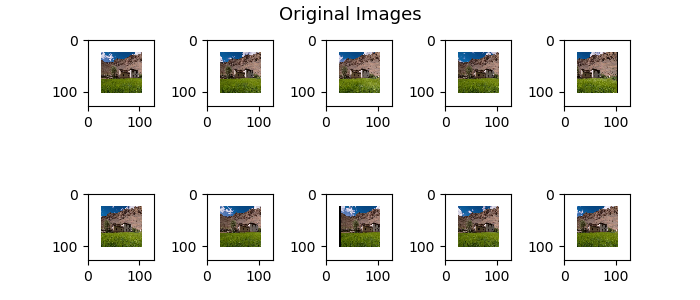
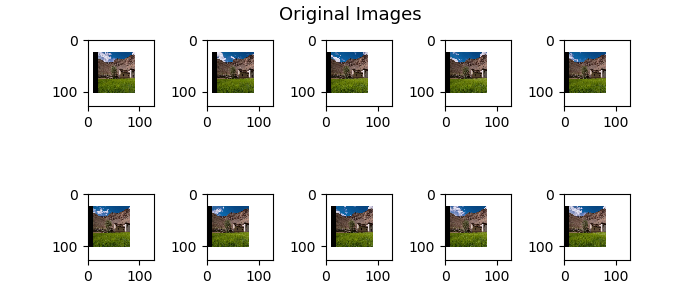
ll

diff --git a/ATN.py b/ATN.py
@@ -70,56 +70,57 @@ class alignment_transformer_network:
         return logits,transformations,alignment_losses,transformations_regularizers, a, b
 
     def alignment_loss_and_reg(self,logits,affine_maps):
-        # multiply W (binary mask) with the 3-dim image (tested):
-        img_slice = tf.slice(logits,[0,0,0,0],[-1,-1,-1,self.num_channels - 1])  # (64, 128, 128, 3)
-        #img_slice = tf.Print(img_slice,[img_slice],message="img_slice is a: ",summarize=100)
-        w_slice = tf.slice(logits,[0,0,0,self.num_channels - 1],[-1,-1,-1,-1])  # (64, 128, 128, 1)
-        #w_slice = tf.Print(w_slice,[w_slice],message="w_slice is a: ",summarize=100)
-        logits_new = tf.multiply(img_slice,w_slice)  # (64, 128, 128, 3)
-        #logits_new = tf.Print(logits_new,[logits_new],message="logits_new is a: ",summarize=100)
-        sum_weighted_imgs = tf.reduce_sum(logits_new,0)  # (128, 128, 3)
-        #sum_weighted_imgs = tf.Print(sum_weighted_imgs,[sum_weighted_imgs],message="sum_weighted_imgs is a: ",summarize=100)
-        sum_weights = tf.reduce_sum(w_slice,0)  # (128, 128, 1)
-        #sum_weights = tf.Print(sum_weights,[sum_weights],message="sum_weights is a: ",summarize=100)
-        sum_weights = tf.concat([sum_weights,sum_weights,sum_weights],2)  # (128, 128, 3)
-        #sum_weights = tf.Print(sum_weights,[sum_weights],message="sum_weights is a: ",summarize=100)
-
-        # If "sum_weights" = 0 for pixel i, then "averages_new" should be 0
-        averages_new = tf.where(tf.less(sum_weights,1e-3),tf.zeros_like(sum_weighted_imgs),tf.divide(sum_weighted_imgs,sum_weights+1e-7)) # (128, 128, 3)
-        #averages_new = tf.Print(averages_new,[averages_new],message="averages_new is a: ",summarize=100)
-
-        weighted_diff = tf.multiply(w_slice,tf.subtract(img_slice,averages_new))  # (64, 128, 128, 3)
-        #weighted_diff = tf.Print(weighted_diff,[weighted_diff],message="weighted_diff is a: ",summarize=100)
-        sum_weighted_diff = tf.reduce_mean(tf.square(weighted_diff),0)  # (128, 128, 3)
-
-        # PRINTINGS
-        tmp = tf.slice(sum_weighted_diff,[90,90,0],[-1,-1,-1])
-        # tmp = tf.Print(tmp,[tmp],message="sum_weighted_diff is a: ",summarize=100)
-        a = tf.reduce_max(tmp)
-        # a = tf.Print(a,[a],message="max(sum_weighted_diff) is a: ")
-        b = tf.reduce_min(tmp)
-        # b = tf.Print(b,[b],message="min(sum_weighted_diff) is a: ")
-
-        # If "sum_weights" = 0 for pixel i, then "square_mean_new" should be 0
-        square_mean_new = tf.where(tf.less(sum_weights,1e-3),tf.zeros_like(sum_weighted_diff),tf.divide(sum_weighted_diff,sum_weights+1e-7))  # (128, 128, 3)
-        #square_mean_new = tf.Print(square_mean_new,[square_mean_new],message="square_mean_new is a: ",summarize=100)
-        alignment_loss = tf.reduce_sum(square_mean_new) # tf.reduce_sum(square_mean_new)
-        #alignment_loss = tf.Print(alignment_loss,[alignment_loss],message="alignment_loss is a: ",summarize=100)
-
-        transformations_regularizer = transformation_regularization(affine_maps,
-                                                                   self.regularizations)  #give a diffrent penalty to each type of transformation magnituted
+        # # multiply W (binary mask) with the 3-dim image (tested):
+        # img_slice = tf.slice(logits,[0,0,0,0],[-1,-1,-1,self.num_channels - 1])  # (64, 128, 128, 3)
+        # #img_slice = tf.Print(img_slice,[img_slice],message="img_slice is a: ",summarize=100)
+        # w_slice = tf.slice(logits,[0,0,0,self.num_channels - 1],[-1,-1,-1,-1])  # (64, 128, 128, 1)
+        # #w_slice = tf.Print(w_slice,[w_slice],message="w_slice is a: ",summarize=100)
+        # logits_new = tf.multiply(img_slice,w_slice)  # (64, 128, 128, 3)
+        # #logits_new = tf.Print(logits_new,[logits_new],message="logits_new is a: ",summarize=100)
+        # sum_weighted_imgs = tf.reduce_sum(logits_new,0)  # (128, 128, 3)
+        # #sum_weighted_imgs = tf.Print(sum_weighted_imgs,[sum_weighted_imgs],message="sum_weighted_imgs is a: ",summarize=100)
+        # sum_weights = tf.reduce_sum(w_slice,0)  # (128, 128, 1)
+        # #sum_weights = tf.Print(sum_weights,[sum_weights],message="sum_weights is a: ",summarize=100)
+        # sum_weights = tf.concat([sum_weights,sum_weights,sum_weights],2)  # (128, 128, 3)
+        # #sum_weights = tf.Print(sum_weights,[sum_weights],message="sum_weights is a: ",summarize=100)
+        #
+        # # If "sum_weights" = 0 for pixel i, then "averages_new" should be 0
+        # averages_new = tf.where(tf.less(sum_weights,1e-3),tf.zeros_like(sum_weighted_imgs),tf.divide(sum_weighted_imgs,sum_weights+1e-7)) # (128, 128, 3)
+        # #averages_new = tf.Print(averages_new,[averages_new],message="averages_new is a: ",summarize=100)
+        #
+        # weighted_diff = tf.multiply(w_slice,tf.subtract(img_slice,averages_new))  # (64, 128, 128, 3)
+        # #weighted_diff = tf.Print(weighted_diff,[weighted_diff],message="weighted_diff is a: ",summarize=100)
+        # sum_weighted_diff = tf.reduce_mean(tf.square(weighted_diff),0)  # (128, 128, 3)
+        #
+        # # PRINTINGS
+        # tmp = tf.slice(sum_weighted_diff,[90,90,0],[-1,-1,-1])
+        # # tmp = tf.Print(tmp,[tmp],message="sum_weighted_diff is a: ",summarize=100)
+        # a = tf.reduce_max(tmp)
+        # # a = tf.Print(a,[a],message="max(sum_weighted_diff) is a: ")
+        # b = tf.reduce_min(tmp)
+        # # b = tf.Print(b,[b],message="min(sum_weighted_diff) is a: ")
+        #
+        # # If "sum_weights" = 0 for pixel i, then "square_mean_new" should be 0
+        # square_mean_new = tf.where(tf.less(sum_weights,1e-3),tf.zeros_like(sum_weighted_diff),tf.divide(sum_weighted_diff,sum_weights+1e-7))  # (128, 128, 3)
+        # #square_mean_new = tf.Print(square_mean_new,[square_mean_new],message="square_mean_new is a: ",summarize=100)
+        # alignment_loss = tf.reduce_sum(square_mean_new) # tf.reduce_sum(square_mean_new)
+        # #alignment_loss = tf.Print(alignment_loss,[alignment_loss],message="alignment_loss is a: ",summarize=100)
+        #
+        # transformations_regularizer = transformation_regularization(affine_maps,
+        #                                                            self.regularizations)  #give a diffrent penalty to each type of transformation magnituted
 
         # # Asher's code:
-        # averages = tf.reduce_mean(logits,  0)
-        # #averages = tf.Print(averages,[averages],message="averages is a: ",summarize=100)
-        # diff = tf.subtract(logits,averages)
-        # #diff = tf.Print(diff,[diff],message="diff is a: ",summarize=100)
-        # sqaure_mean = tf.reduce_mean(tf.square(diff),0)
-        # #sqaure_mean = tf.Print(sqaure_mean,[sqaure_mean],message="sqaure_mean is a: ",summarize=100)
-        # alignment_loss = tf.reduce_sum(sqaure_mean)
-        # #alignment_loss = tf.Print(alignment_loss,[alignment_loss],message="alignment_loss is a: ",summarize=100)
-        # transformations_regularizer = transformation_regularization(affine_maps,self.regularizations)#give a diffrent penalty to each type of transformation magnituted
-
+        averages = tf.reduce_mean(logits,  0)
+        #averages = tf.Print(averages,[averages],message="averages is a: ",summarize=100)
+        diff = tf.subtract(logits,averages)
+        #diff = tf.Print(diff,[diff],message="diff is a: ",summarize=100)
+        sqaure_mean = tf.reduce_mean(tf.square(diff),0)
+        #sqaure_mean = tf.Print(sqaure_mean,[sqaure_mean],message="sqaure_mean is a: ",summarize=100)
+        alignment_loss = tf.reduce_sum(sqaure_mean)
+        #alignment_loss = tf.Print(alignment_loss,[alignment_loss],message="alignment_loss is a: ",summarize=100)
+        transformations_regularizer = transformation_regularization(affine_maps,self.regularizations)#give a diffrent penalty to each type of transformation magnituted
+        a = tf.reduce_max(averages)
+        b = tf.reduce_max(averages)
         return alignment_loss,transformations_regularizer , a , b
 
 

diff --git a/atn_helpers/tranformations_helper.py b/atn_helpers/tranformations_helper.py
@@ -13,6 +13,9 @@ from tensorflow.python.framework import ops
 from scipy.linalg import expm_frechet
 import cv2
 from random import randint,uniform
+from tensorflow.contrib import layers
+import tensorflow as tf
+import tensorflow.contrib.layers as lays
 
 '''
 input - a list of desired transformations. 
@@ -119,27 +122,35 @@ def get_param_indexes():
 #this is the stn's localization network
 #here we construct it using a 2-layer FC network.
 def regress_parameters(x,width,keep_prob,activation_func,num_of_params,weight_stddev,num_channels):
-    #We'll setup the two-layer localisation network to figure out the
-    # parameters for an affine transformation of the input
-    # Create variables for fully connected layer
-    W_fc_loc1 = weight_variable([width * width * num_channels,20],weight_stddev)
-    #W_fc_loc1 = tf.Print(W_fc_loc1,[W_fc_loc1],message="W_fc_loc1: ",summarize=100)
-    b_fc_loc1 = bias_variable([20])
-    #b_fc_loc1 = tf.Print(b_fc_loc1,[b_fc_loc1],message="b_fc_loc1: ",summarize=100)
 
-    W_fc_loc2 = weight_variable([20,num_of_params],weight_stddev)
-    # Use identity transformation as starting point
-    b_fc_loc2 = bias_variable([1,num_of_params])
-    # Define the two layer localisation network
-    h_fc_loc1 = activation_func(tf.matmul(x,W_fc_loc1) + b_fc_loc1)
-    #h_fc_loc1 = tf.Print(h_fc_loc1,[h_fc_loc1],message="h_fc_loc1: ",summarize=100)
-    # We can add dropout for regularizing and to reduce overfitting like so:
-    h_fc_loc1_drop = tf.nn.dropout(h_fc_loc1,keep_prob)
-    #h_fc_loc1_drop = tf.Print(h_fc_loc1_drop,[h_fc_loc1_drop],message="h_fc_loc1_drop: ",summarize=100)
-    # Second layer
-    s_fc_loc2 = activation_func(tf.matmul(h_fc_loc1_drop,W_fc_loc2) + b_fc_loc2)
-    #s_fc_loc2 = tf.Print(s_fc_loc2,[s_fc_loc2],message="s_fc_loc2: ",summarize=100)
-    return s_fc_loc2
+    net = tf.reshape(x,shape=[-1,128,128,num_channels])
+    net = lays.conv2d(net,32,[5,5],stride=2,padding='SAME')
+    net = lays.conv2d(net,16,[5,5],stride=2,padding='SAME')
+    net = layers.flatten(net)
+    net = lays.fully_connected(net, 7 ,activation_fn=tf.nn.relu,scope='fc-final')
+
+    # #We'll setup the two-layer localisation network to figure out the
+    # # parameters for an affine transformation of the input
+    # # Create variables for fully connected layer
+    # W_fc_loc1 = weight_variable([width * width * num_channels,20],weight_stddev)
+    # #W_fc_loc1 = tf.Print(W_fc_loc1,[W_fc_loc1],message="W_fc_loc1: ",summarize=100)
+    # b_fc_loc1 = bias_variable([20])
+    # #b_fc_loc1 = tf.Print(b_fc_loc1,[b_fc_loc1],message="b_fc_loc1: ",summarize=100)
+    #
+    # W_fc_loc2 = weight_variable([20,num_of_params],weight_stddev)
+    # # Use identity transformation as starting point
+    # b_fc_loc2 = bias_variable([1,num_of_params])
+    # # Define the two layer localisation network
+    # h_fc_loc1 = activation_func(tf.matmul(x,W_fc_loc1) + b_fc_loc1)
+    # #h_fc_loc1 = tf.Print(h_fc_loc1,[h_fc_loc1],message="h_fc_loc1: ",summarize=100)
+    # # We can add dropout for regularizing and to reduce overfitting like so:
+    # h_fc_loc1_drop = tf.nn.dropout(h_fc_loc1,keep_prob)
+    # #h_fc_loc1_drop = tf.Print(h_fc_loc1_drop,[h_fc_loc1_drop],message="h_fc_loc1_drop: ",summarize=100)
+    # # Second layer
+    # s_fc_loc2 = activation_func(tf.matmul(h_fc_loc1_drop,W_fc_loc2) + b_fc_loc2)
+    # #s_fc_loc2 = tf.Print(s_fc_loc2,[s_fc_loc2],message="s_fc_loc2: ",summarize=100)
+
+    return net #s_fc_loc2
 
 
 def expm(params_matrix,batch_size,num_channels):

diff --git a/tasks_for_atn/data_provider2.py b/tasks_for_atn/data_provider2.py
@@ -5,6 +5,7 @@ import glob
 import cv2
 import random
 import matplotlib.pyplot as plt
+import math
 
 class DataProvider:
 
@@ -27,7 +28,7 @@ class DataProvider:
         all_data_cropped = []
         self.train = []
         self.test = []
-        j = 0
+        j = 0 # should be 0
         for img_str in files:
             if j+crop_size <= img_sz:
                 I = cv2.imread(img_str)
@@ -53,14 +54,14 @@ class DataProvider:
                 # self.train.append(img)
                 # self.test.append(img)
 
-                all_data_cropped.append(crop) # test: return it
-                j += 1
+                all_data_cropped.append(crop)
+                #j += 1
             else:
                 j = 0
 
         # prepare the training and test data:
         for i in range(len(all_data_cropped)):
-            I, out = embed_image(all_data_cropped[i], img_sz, crop_size)
+            I, out = embed_image_test(all_data_cropped[i], img_sz, crop_size) #  embed_image(all_data_cropped[i], img_sz, crop_size)
             I = np.reshape(out, (img_sz * img_sz * num_channels)) # change to out
             self.train.append(I)
             self.test.append(I)
@@ -110,6 +111,18 @@ def embed_image(I, img_sz, crop_size):
     W[s_idx:s_idx+crop_size, s_idx:s_idx+crop_size, :] = 1
     # concat img and W, and create an output of size: (img_sz*img_sz*4)
     out = np.concatenate((img, W), axis=2)
+    return img, out
+
+
+def embed_image_test(I, img_sz, crop_size):
+    i = math.floor(10*np.random.random_integers(0, 1))
+    # wrap I and W in an image of size (img_sz*img_sz*3) and (img_sz*img_sz*1) respectively.
+    s_idx = img_sz // 2 - crop_size // 2
+    img = np.ones((img_sz, img_sz, 3))
+    img[s_idx:s_idx+crop_size, i:i+crop_size, :] = I
+    W = np.ones((img_sz, img_sz, 1))  # test: return to: np.zeros((img_sz, img_sz, 1))
+    # concat img and W, and create an output of size: (img_sz*img_sz*4)
+    out = img #np.concatenate((img, W), axis=2)
     return img, out
 
 

diff --git a/tasks_for_atn/digit_unsupervised_alignment.py b/tasks_for_atn/digit_unsupervised_alignment.py
@@ -35,15 +35,15 @@ def main():
     # Here you can play with some parameters.
     digit_to_align = 7  #the digit which should we align
     n_epochs = 1
-    iter_per_epoch = 500
+    iter_per_epoch = 200
     batch_size = 64
 
-    num_channels = 4
+    num_channels = 3
 
     # possible trasromations = "r","sc","sh","t","ap","us","fa"
     # see explanations in transformations_helper.py
     requested_transforms = ["t"] #["r","t","sc","sh"]
-    regularizations = {"r":0,"t":0.,"sc":150,"sh":0}
+    regularizations = {"r":0,"t":0.5,"sc":0,"sh":0}
     #    requested_transforms = ["ane"]
     #    regularizations = {"ane":2500}
     #    requested_transforms = ["fa"]
@@ -93,7 +93,7 @@ def main():
 
     device = '/cpu:0'
     with tf.device(device):  #greate the graph
-        loss,logits,transformations,b_s,x,keep_prob,optimizer , a, b= computational_graph(my_learning_rate,
+        loss,logits,transformations,b_s,x,keep_prob,optimizer, a, b = computational_graph(my_learning_rate,
                                                                                     requested_transforms,batch_size,
                                                                                     regularizations,activation_func,
                                                                                     weight_stddev,num_channels)
